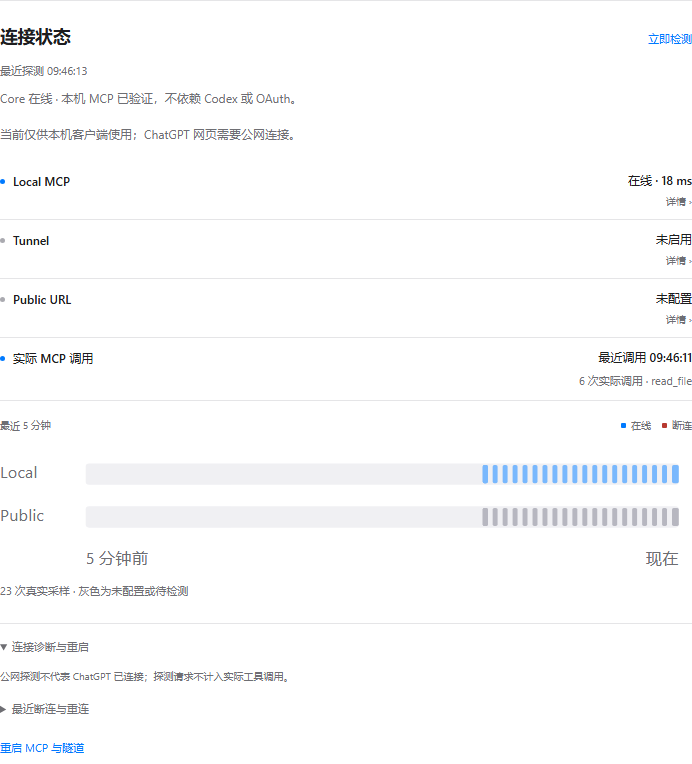
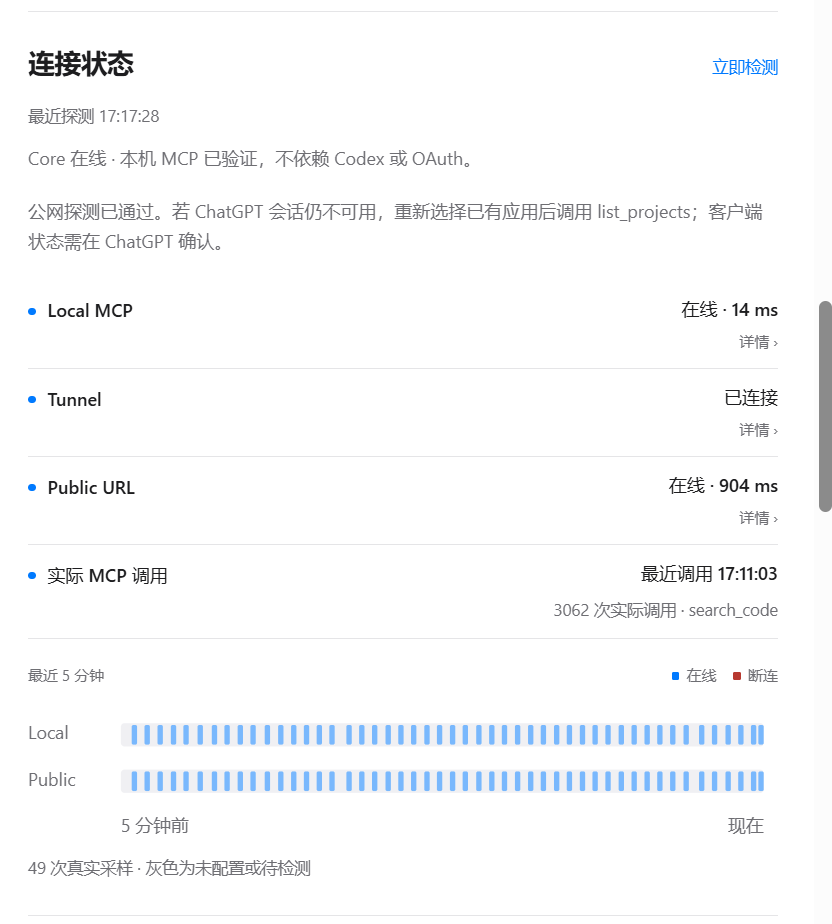
docs: show connected public MCP in network status screenshot

diff --git a/site/index.html b/site/index.html
@@ -143,7 +143,7 @@ table{border-collapse:collapse;width:100%;font-size:14px;margin:24px 0;display:b
 <p>这是独立环境中实际运行的配置页。下面展开它的主要操作区域；GitHub 上的图片和展示页不会连接你的电脑或保存凭据。</p>
 <p><a name="interface"></a></p>
 <h2>配置页面</h2>
-<p>连接、项目和状态集中在同一个本机页面，不需要来回切换管理后台。以下截图使用合成只读项目，公网隧道和 Agent 均未启用。</p>
+<p>连接、项目和状态集中在同一个本机页面，不需要来回切换管理后台。项目表单使用合成只读示例；连接状态图展示公网探测通过时的实机记录。</p>
 <h3>配置公网连接</h3>
 <p>先选择连接通道，再跟着页面注册 ngrok、复制 authtoken、粘贴并启用。已有固定开发域名可在高级连接设置填写；Cloudflare 临时连接和本机直连也保留为备选。凭据只保存在本机，不会回显到页面。</p>
 <p><img src="assets/setup-tunnel-guide.png" alt="真实连接配置：ngrok 注册、凭据获取和粘贴教程；示例没有填写凭据或启用隧道" /></p>
@@ -151,8 +151,8 @@ table{border-collapse:collapse;width:100%;font-size:14px;margin:24px 0;display:b
 <p>公网地址验证通过后复制到 ChatGPT，按页面指引创建连接，再调用 <code>list_projects</code> 验证。仅本机在线时，ChatGPT 网页仍无法访问 <code>127.0.0.1</code>；截图中的空地址表示尚未启用公网连接。</p>
 <p><img src="assets/setup-connection.png" alt="真实 ChatGPT 接入指引：公网 MCP 地址、配置入口和首次工具调用说明" /></p>
 <h3>查看连接状态</h3>
-<p>分别查看 Local MCP、Tunnel、Public URL 和实际 MCP 调用，定位故障发生在哪一层。最近五分钟视图来自真实探测采样；本次截图中本机 MCP 在线，隧道未启用，公网地址未配置，并记录了实际只读调用。</p>
-<p><img src="assets/setup-network.png" alt="真实网络状态：本机在线、隧道未启用、公网未配置，以及探测历史和实际读取活动" /></p>
+<p>分别查看 Local MCP、Tunnel、Public URL 和实际 MCP 调用，定位故障发生在哪一层。最近五分钟视图来自真实探测采样；本次截图中本机 MCP 与公网均在线，Tunnel 已连接，并显示了实际 MCP 调用活动。</p>
+<p><img src="assets/setup-network.png" alt="实机连接状态：本机 MCP 在线、Tunnel 已连接、Public URL 在线，以及最近五分钟探测与实际调用活动" /></p>
 <h3>编辑项目与权限</h3>
 <p>展开项目，填写名称、唯一 ID 和已有目录，选择只读或受控写，再保存并确认生效。移除只取消登记，不删除文件；写权限须单独开启，工作区重命名的范围限制见下方权限说明。</p>
 <p><img src="assets/setup-project-editor.png" alt="真实项目编辑表单：合成项目目录、默认只读权限和独立的 Codex 项目授权" /></p>
